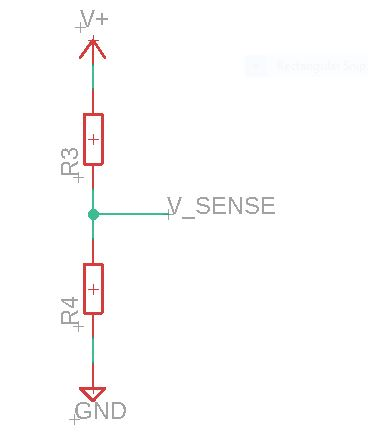
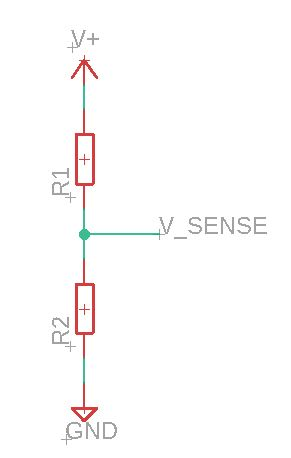
Changes to eqns

Changed region(s): [[0.1546, 0.0296, 0.9278, 0.9772]]

diff --git a/_posts/2021-4-27-MPPT Solar Charge Controller.md b/_posts/2021-4-27-MPPT Solar Charge Controller.md
@@ -27,39 +27,46 @@ Thus, we can derive a mathematical equation that would give us the output voltag
 
 Since the voltage across V_Sense and GND is always at 0.8V (measured wrt GND), asuuming that there is no input from a microcontroller, the voltage across the output (V_Out) and V_Sense cacn be modelled using the voltage divider equation: 
 
-$$\ V_{Sense} = V_{Out} * \frac{R_4}{R_3+R_4} $$
+$$\ V_{Sense} = V_{Out} * \frac{R_2}{R_1+R_2} $$
 
 Rearranging yields:
 
-$$V_{Out} = V_{Sense} * \frac{R_3 + R_4}{R_4} $$
+$$V_{Out} = V_{Sense} * \frac{R_1 + R_2}{R_2} $$
 
-However, by adding a resistor $$\ R_5 $$ and applying a voltage at V_Sense, V_out can now be controlled by varying the voltage through a micro-controller analog pin. Given new setup is represented by the circuit diagram below: 
+However, by adding a resistor $$\ R_3 $$ and applying a voltage at V_Sense, V_out can now be controlled by varying the voltage through a micro-controller analog pin. Given new setup is represented by the circuit diagram below: 
 
 {:refdef: style="text-align: center;"}
 ![Circuit Diagram 1]({{site.baseurl}}/images/MPPT Solar CC/Circuit Diagram 2.JPG)
 {: refdef}
 
-By considering current flowing through resistors, we obtain the following expression for current through $$\ R_5 $$:
+By considering current flowing through resistors, we obtain the following expression for current through $$\ R_3 $$:
 _
-$$\ I_{R5} = \frac{V_{Sense} - 0.8}{R_5} $$
-*We assume that positive current represents current flowing from $$\ V_sense $$ into $$\ R_5 $$*
+$$\ I_{R_3} = \frac{V_{Sense} - 0.8}{R_3} $$
 
-Current through $$\ R_4 $$ is given to be:
+*We assume that positive current represents current flowing from $$\ V_sense $$ into $$\ R_3 $$*
 
-$$\ I_{R4} = \frac{0.8 V}{R_4} $$
+Current through $$\ R_2 $$ is given to be:
+
+$$\ I_{R_2} = \frac{0.8 V}{R_2} $$ 
+
+*This is because we know that the voltage across  $$\ R_2 $$ is always 0.8V*
 
 Thus by Kirchoff's First Law:
 
-$$\ I_{R_3} = I_{R4} + I_{R5} $$
+$$\ I_{R_2} = I_{R_1} + I_{R_3} $$
+
+$$\ I_{R_1} = I_{R_2} - I_{R_3} $$
 
 Thus given that
-$$\ V_{R3} = I_{R3} * R_3 $$
+$$\ V_{R_1} = I_{R_1} * R_1 $$
 
-$$\ V_{Out} = 0.8V + I_{R3} * R_3 $$
-$$\ V_{Out} = 0.8V + (I_{R4} + I_{R5}) * R_3 $$
-$$\ V_{Out} = 0.8V + (\frac{0.8 V}{R_4} +\frac{V_{Sense} - 0.8}{R_5}) * R_3 $$
+$$\ V_{Out} = 0.8V + I_{R_1} * R_1 $$
 
-Thus, we derive the following mathematical relationship between the output voltage, $$\ V_{Sense} $$ and $$\ R_3, R_4 and R_5 $$
+$$\ V_{Out} = 0.8V + (I_{R_2} - I_{R_3}) * R_1 $$
+
+$$\ V_{Out} = 0.8V + (\frac{0.8 V}{R_2} - \frac{V_{Sense} - 0.8}{R_3}) * R_1 $$
+
+Thus, we derive the following mathematical relationship between the output voltage, $$\ V_{Sense} $$ and $$\ R_3, R_4  and  R_5 $$
 
 After sorting out the voltage regulation bit, it was then time to sort out the _voltage and current sensing_ part of this project (after all, we have to know what the value of the voltage and current of our panels and battery is to make any attempt at being a charge controller)! To that end, I turned to a specialized IC - the INA219 which is an variable-precision power monitoring IC that is capable of measuring both voltage and current through a shunt resistor. Using an appropriate value of shunt resistor, I was thus able to obtain values for both current and voltage in the desired range. 
 
